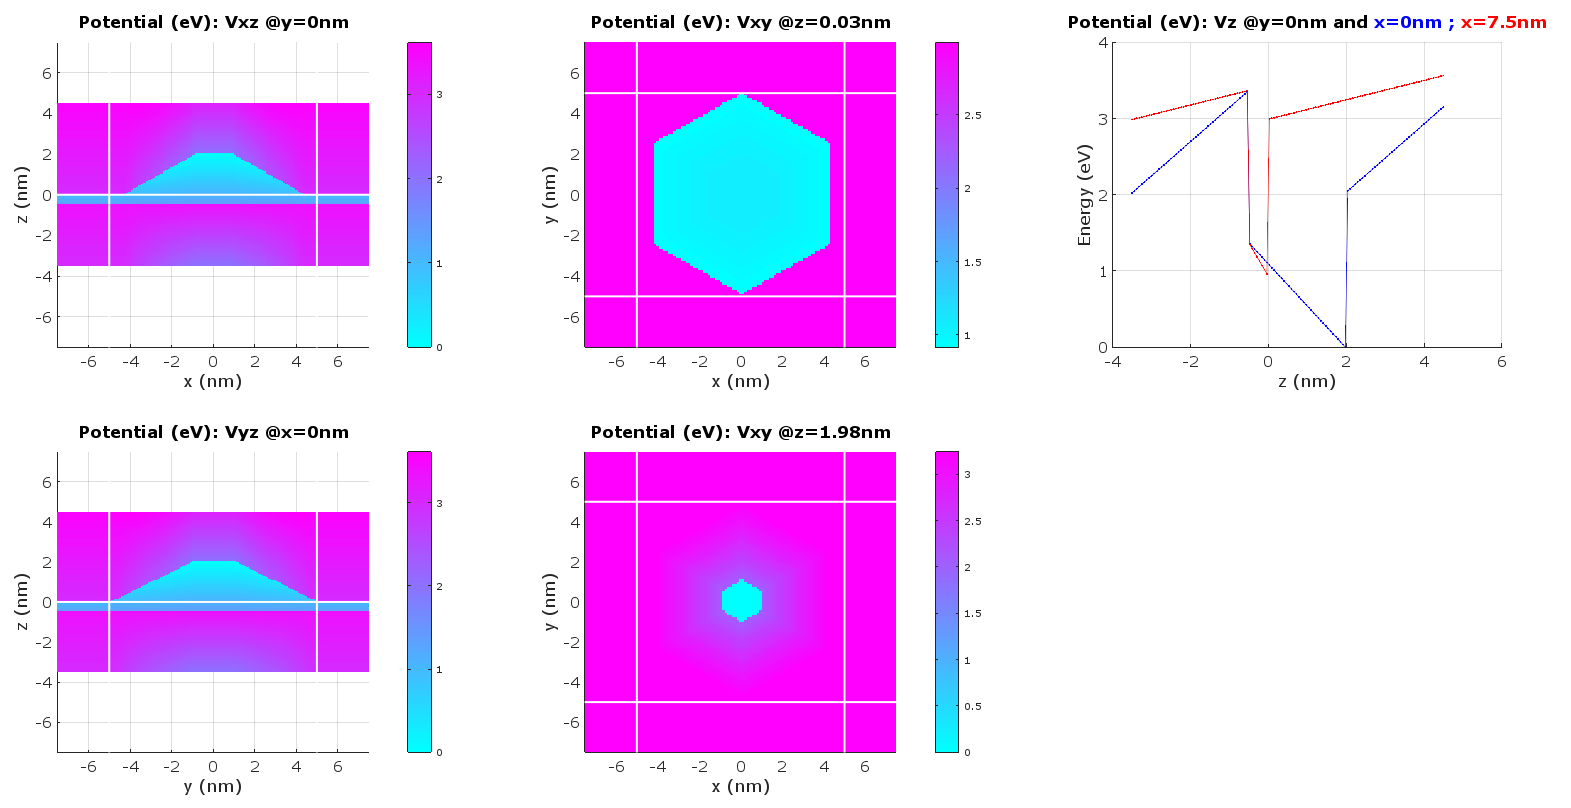
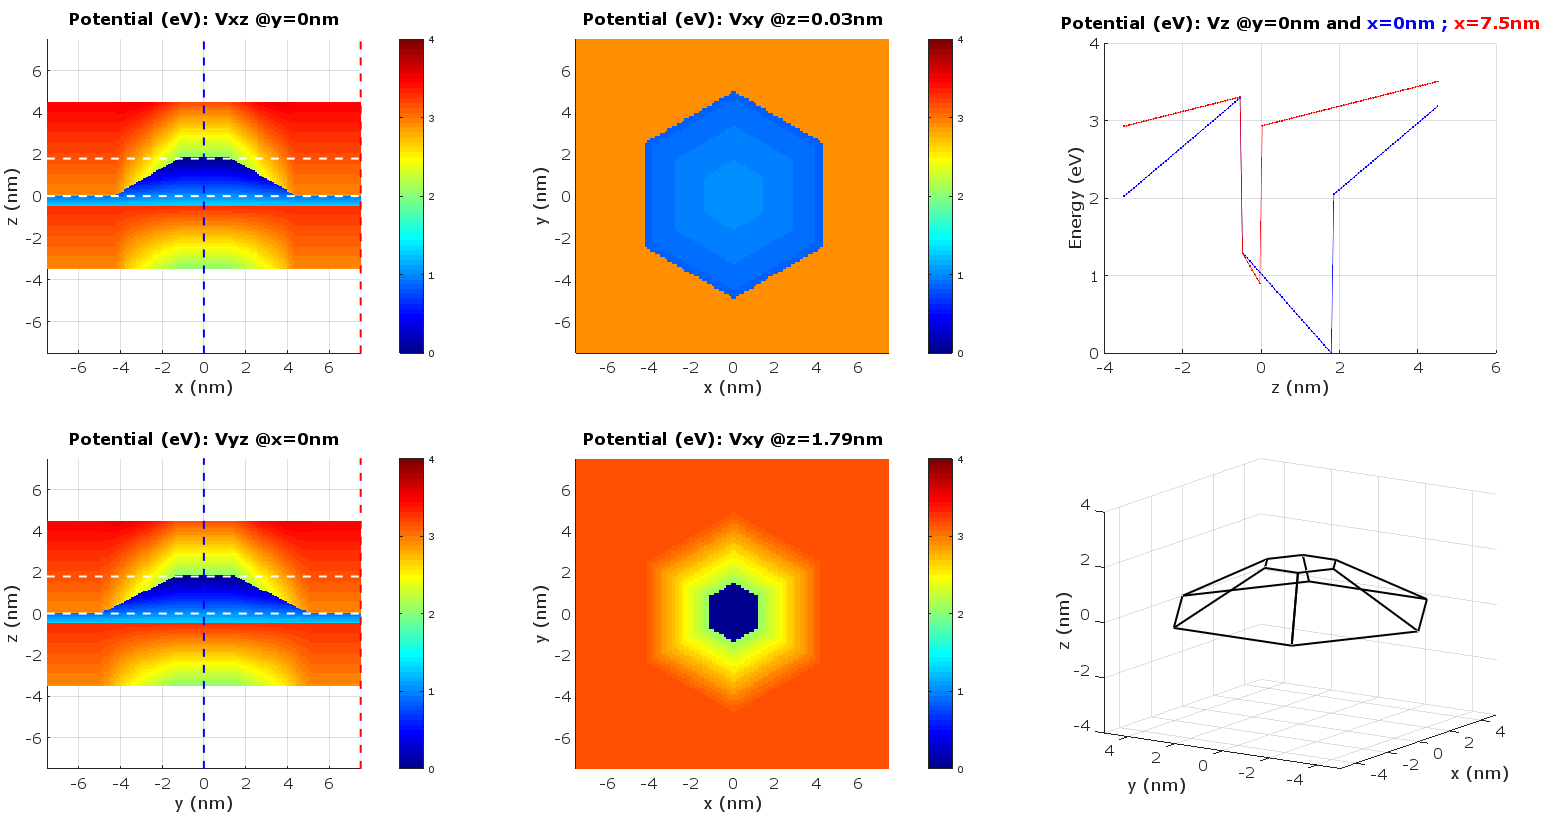
Add files via upload

diff --git a/Pot_GaN_AlN.m b/Pot_GaN_AlN.m
@@ -86,7 +86,7 @@ V0=V0-min(min(min(V0)));
 %%%%%%%%%%%%%%%%%%%%%%%%%%%%%%%%%%%%%%%%%%%%%%%%%%%%%%%%%%%%%%%%%%%%%%%%%%%
 %%%%%%%%%%%%%%%%%%%%%%%%%%%%%%%%%%%%%%%%%%%%%%%%%%%%%%%%%%%%%%%%%%%%%%%%%%%
 
-figure('Name','Potential','position',[-1900 100 1600 800])
+figure('Name','Potential','position',[100 100 1600 800])
 
 %%%%%%%%%%%%%%%%%%%%%%%%%%%%%%%%%%%%%%%%%%%%%%%%%%%%%%%%%%%%%%%%%%%%%%%%%%%
 
@@ -94,12 +94,18 @@ subplot(2,3,1,'fontsize',15)
 hold on;grid on;
 
 pcolor(x*1e9,z*1e9,squeeze(V0(round(end/2),:,:))')
-plot([-1 1]*10,[0 0],'w','linewidth',2)
-plot([1 1]*5,[-1 1]*10,'w','linewidth',2)
-plot([1 1]*-5,[-1 1]*10,'w','linewidth',2)
+plot([-1 1]*10,[0 0],'w--','linewidth',2)
 
-colormap(cool)
+idz=find(z>QDh);
+idz=idz(1)-1;
+plot([-1 1]*10,[1 1]*z(idz)*1e9,'w--','linewidth',2)
+plot([1 1]*0,[-1 1]*10,'b--','linewidth',2)
+plot([1 1]*x(end)*1e9,[-1 1]*10,'r--','linewidth',2)
+
+colormap(jet)
 colorbar
+shading flat
+caxis([floor(min(V0(:)))  ceil(max(V0(:)))])
 
 xlim([-1 1]*Mx/2*1e9)
 ylim([-1 1]*My/2*1e9)
@@ -114,12 +120,17 @@ subplot(2,3,4,'fontsize',15)
 hold on;grid on;
 
 pcolor(y*1e9,z*1e9,squeeze(V0(:,round(end/2),:))')
-plot([-1 1]*10,[0 0],'w','linewidth',2)
-plot([1 1]*5,[-1 1]*10,'w','linewidth',2)
-plot([1 1]*-5,[-1 1]*10,'w','linewidth',2)
+plot([-1 1]*10,[0 0],'w--','linewidth',2)
+idz=find(z>QDh);
+idz=idz(1)-1;
+plot([-1 1]*10,[1 1]*z(idz)*1e9,'w--','linewidth',2)
+plot([1 1]*0,[-1 1]*10,'b--','linewidth',2)
+plot([1 1]*x(end)*1e9,[-1 1]*10,'r--','linewidth',2)
 
-colormap(cool)
+colormap(jet)
 colorbar
+shading flat
+caxis([floor(min(V0(:)))  ceil(max(V0(:)))])
 
 xlim([-1 1]*Mx/2*1e9)
 ylim([-1 1]*My/2*1e9)
@@ -138,14 +149,10 @@ idz=idz(1);
 
 pcolor(x*1e9,y*1e9,squeeze(V0(:,:,idz)))
 
-plot([-1 1]*10,[1 1]*5,'w','linewidth',2)
-plot([-1 1]*10,[1 1]*-5,'w','linewidth',2)
-
-plot([1 1]*5,[-1 1]*10,'w','linewidth',2)
-plot([1 1]*-5,[-1 1]*10,'w','linewidth',2)
-
-colormap(cool)
+colormap(jet)
 colorbar
+shading flat
+caxis([floor(min(V0(:)))  ceil(max(V0(:)))])
 
 xlim([-1 1]*My/2*1e9)
 ylim([-1 1]*My/2*1e9)
@@ -163,14 +170,10 @@ idz=find(z>QDh);
 idz=idz(1)-1;
 pcolor(x*1e9,y*1e9,squeeze(V0(:,:,idz)))
 
-plot([-1 1]*10,[1 1]*5,'w','linewidth',2)
-plot([-1 1]*10,[1 1]*-5,'w','linewidth',2)
-
-plot([1 1]*5,[-1 1]*10,'w','linewidth',2)
-plot([1 1]*-5,[-1 1]*10,'w','linewidth',2)
-
-colormap(cool)
+colormap(jet)
 colorbar
+shading flat
+caxis([floor(min(V0(:)))  ceil(max(V0(:)))])
 
 xlim([-1 1]*My/2*1e9)
 ylim([-1 1]*My/2*1e9)
@@ -186,7 +189,56 @@ hold on;grid on;
 plot(z*1e9,squeeze(V0(round(end/2),round(end/2),:)) ,'b.-')
 plot(z*1e9,squeeze(V0(round(end/2),end,:)) ,'r.-')
 
+ylim([floor(min(V0(:)))  ceil(max(V0(:)))])
 xlabel('z (nm)')
 ylabel('Energy (eV)')
 title(strcat('Potential (eV): Vz @y=0nm and \color{blue}x=0nm ; \color{red}x=',num2str(x(end)*1e9),'nm'))
 
+%%%%%%%%%%%%%%%%%%%%%%%%%%%%%%%%%%%%%%%%%%%%%%%%%%%%%%%%%%%%%%%%%%%%%%%%%%%
+
+subplot(2,3,6,'fontsize',15)
+hold on;grid on;
+
+view (-38, 30);
+
+
+aa=[
+-sqrt(3)/2*a  -a/2   0
+-sqrt(3)/2*a  +a/2   0
+0             +a     0
++sqrt(3)/2*a  +a/2   0
++sqrt(3)/2*a  -a/2   0
+0             -a     0
+-sqrt(3)/2*a  -a/2   0
+]*1e9;
+
+plot3(aa(:,1),aa(:,2),aa(:,3),'k','linewidth',2)
+
+bb=[
++(QDh-h)/h*sqrt(3)/2*a  -(h-QDh)*a/h/2   QDh
++(QDh-h)/h*sqrt(3)/2*a  +(h-QDh)*a/h/2   QDh
+0                       +(h-QDh)*a/h     QDh
+
+-(QDh-h)/h*sqrt(3)/2*a  +(h-QDh)*a/h/2   QDh
+-(QDh-h)/h*sqrt(3)/2*a  -(h-QDh)*a/h/2   QDh
+0                       -(h-QDh)*a/h     QDh
++(QDh-h)/h*sqrt(3)/2*a  -(h-QDh)*a/h/2   QDh
+]*1e9;
+
+plot3(bb(:,1),bb(:,2),bb(:,3),'k','linewidth',2)
+
+
+for j=1:length(aa(:,1))
+  
+  plot3([aa(j,1) bb(j,1)],[aa(j,2) bb(j,2)],[aa(j,3) bb(j,3)],'k','linewidth',2)
+
+end
+
+M=max([Mx My]);
+xlim([-1 1]*M/3*1e9)
+ylim([-1 1]*M/3*1e9)
+zlim([-0.8 0.8]*M/3*1e9)
+
+xlabel('x (nm)')
+ylabel('y (nm)')
+zlabel('z (nm)')
